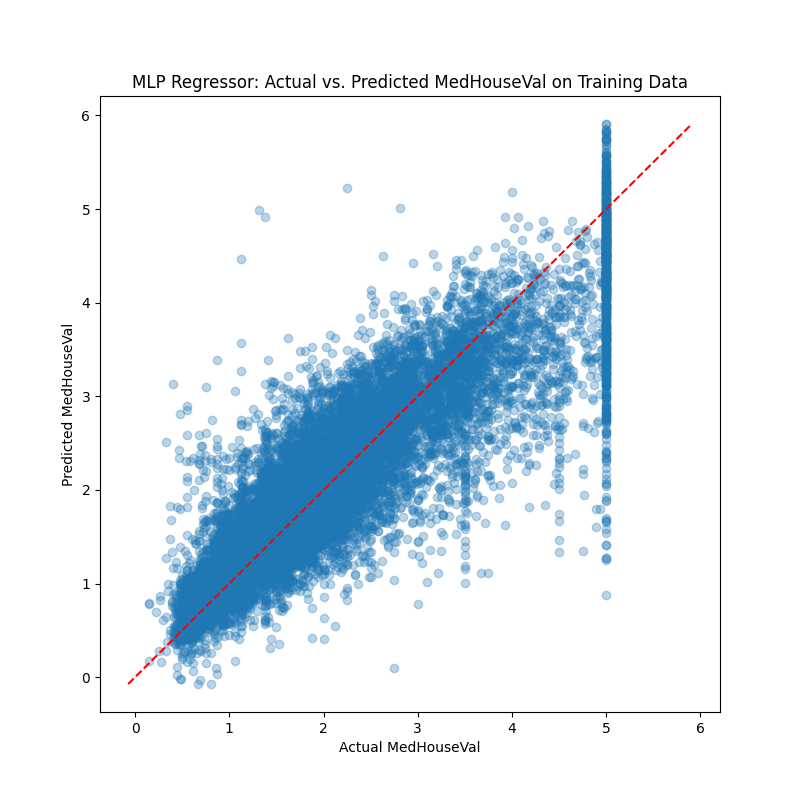
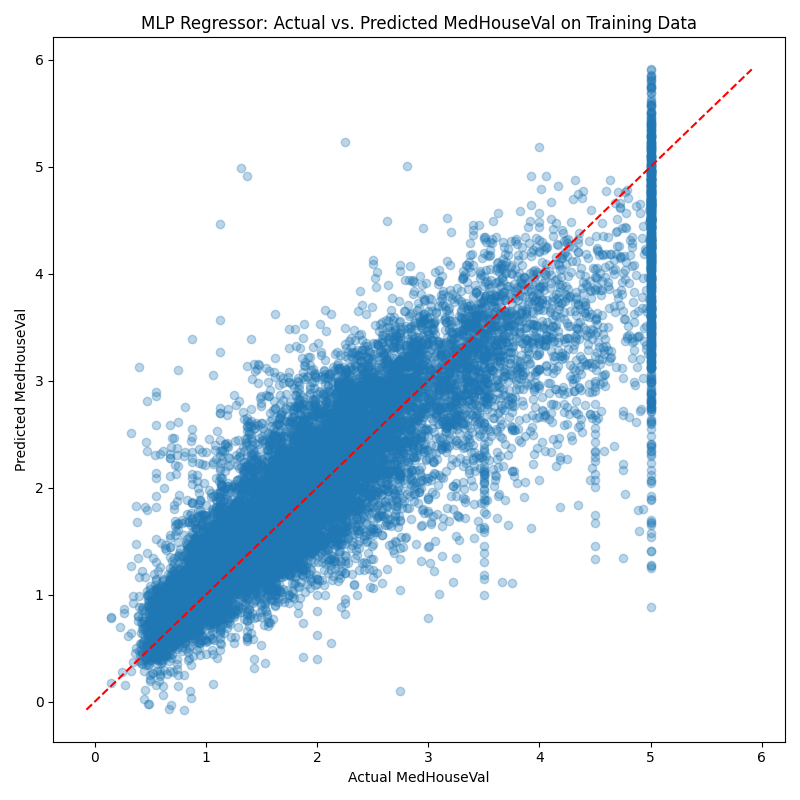
Code cleanup and  README.md improvements
Cleaned up training metrics code. Added test metrics code. Consolidated module import code to the beginning of the script. Updated the readme with workflow details and running instructions.

diff --git a/src/ds_pipeline.py b/src/ds_pipeline.py
@@ -1,8 +1,15 @@
-from sklearn.datasets import fetch_california_housing
 import numpy as np
 import pandas as pd
 import matplotlib.pyplot as plt
 
+import warnings
+warnings.filterwarnings("ignore") 
+
+from sklearn.datasets import fetch_california_housing
+from sklearn.model_selection import train_test_split
+from sklearn.preprocessing import StandardScaler
+from sklearn.neural_network import MLPRegressor
+from sklearn.metrics import r2_score, mean_absolute_error, mean_absolute_percentage_error
 
 # Load California Housing dataset
 housing = fetch_california_housing(as_frame=True)
@@ -11,17 +18,11 @@ housing = fetch_california_housing(as_frame=True)
 df = housing.frame
 
 # Setting up train/test split
-from sklearn.model_selection import train_test_split
 train_df, test_df = train_test_split(df, test_size=0.3, shuffle=True, random_state=42)
 
 #Checking train/test split
 print(f"Train shape: {train_df.shape}, Test shape: {test_df.shape}")
 
-import warnings
-warnings.filterwarnings("ignore")
-
-from sklearn.preprocessing import StandardScaler
-from sklearn.neural_network import MLPRegressor
 
 # Separate features and target using the existing train_df/test_df
 X_train = train_df.drop(columns=["MedHouseVal"])
@@ -52,8 +53,7 @@ mlp.fit(X_train_scaled, y_train)
 train_preds = mlp.predict(X_train_scaled)
 
 #training performance metrics
-from sklearn.metrics import mean_absolute_error, mean_absolute_percentage_error, mean_squared_error, r2_score
-def metrics_row(name, y_train, train_preds):
+def train_metrics_row(name, y_train, train_preds):
     return {
         "split": name,
         "R2": r2_score(y_train, train_preds),
@@ -61,28 +61,44 @@ def metrics_row(name, y_train, train_preds):
         "MAPE": mean_absolute_percentage_error(y_train, train_preds),
     }
 
-metrics_df = pd.DataFrame([metrics_row("train", y_train, train_preds)])
+train_metrics_df = pd.DataFrame([train_metrics_row("train", y_train, train_preds)])
 
 print("Training Performance Metrics:")
-print(metrics_df.to_string(index=False))
+print(train_metrics_df.to_string(index=False))
 
 #Plotting model performance on training data
 plt.figure(figsize=(8, 8))
 plt.scatter(y_train, train_preds, alpha=0.3)
+
 low = min(np.min(y_train), np.min(train_preds))
 high = max(np.max(y_train), np.max(train_preds))
 plt.plot([low, high], [low, high], color="red", linestyle="--") #ref line
 plt.xlabel("Actual MedHouseVal")
 plt.ylabel("Predicted MedHouseVal")
 plt.title("MLP Regressor: Actual vs. Predicted MedHouseVal on Training Data")
+plt.tight_layout()
 
-#saving plot
+#saving training plot
 plt.savefig("figures/train_actual_vs_pred.png")
 plt.close()
 print("Training performance plot saved as 'figures/train_actual_vs_pred.png'")
 
 # Test predictions
 test_preds = mlp.predict(X_test_scaled)
+
+# Test performance metrics
+def test_metrics_row(name, y_test, test_preds):
+    return {
+        "split": name,
+        "R2": r2_score(y_test, test_preds),
+        "MAE": mean_absolute_error(y_test, test_preds),
+        "MAPE": mean_absolute_percentage_error(y_test, test_preds),
+    }
+
+test_metrics_df = pd.DataFrame([test_metrics_row("test", y_test, test_preds)])
+
+print("Test Performance Metrics:")
+print(test_metrics_df.to_string(index=False))      
 
 # Plotting model performance on test data
 plt.figure(figsize=(8, 8))
@@ -91,14 +107,12 @@ plt.scatter(y_test, test_preds, alpha=0.3)
 low = min(np.min(y_test), np.min(test_preds))
 high = max(np.max(y_test), np.max(test_preds))
 plt.plot([low, high], [low, high], color="red", linestyle="--")  # ref line
-
 plt.xlabel("Actual MedHouseVal")
 plt.ylabel("Predicted MedHouseVal")
 plt.title("MLP Regressor: Actual vs. Predicted MedHouseVal on Test Data")
+plt.tight_layout()
 
-# Saving plot
+# Saving testplot
 plt.savefig("figures/test_actual_vs_pred.png")
 plt.close()
-
 print("Test performance plot saved as 'figures/test_actual_vs_pred.png'")
-

diff --git a/README.md b/README.md
@@ -1,8 +1,23 @@
 # A02 Mark Kulaga, Bayani Aquino Jr.
- This repo is for Assignment 2 in OPIM 5512. It will be used to practice collaboration through branches and properly handling pull requests to manage changes. To practice this, we'll develop a basic machine learning model and save some plots from its outputs.
+ This repo is for Assignment 2 in OPIM 5512. It was used to practice collaboration through branches and properly handling pull requests to manage changes. To practice this, we worked together to run a basic machine learning model predicting Median House Value from the California Housing Dataset and saving some plots from its outputs.
+
+## Workflow
+1. Loaded California Housing dataset uswing sklearn.
+2. Split data into training and test partitions
+3. Scaled features with StandardScaler
+4. Developed an MLPRegressor model and fit it with the training split
+5. Applied model to training data, then evaluated performance, and created output plot
+6. Applied model to test data, then evaluated performance, and created output plot
 
 ## Data
 California Housing Dataset
 
 ## How to Setup and Run
-
+*Ensure that the figures folder exists in the repository
+*Run the following code snippets in your terminal (From the repo root)
+# Ensure  your working directory is the A02-mdk23002-bsa23004 repo
+cd path\to\A02-mdk23002-bsa23004
+# install packages and dependencies
+pip install -r requirements.txt
+# run the ds_pipeline.py script
+python .\src\ds_pipeline.py
